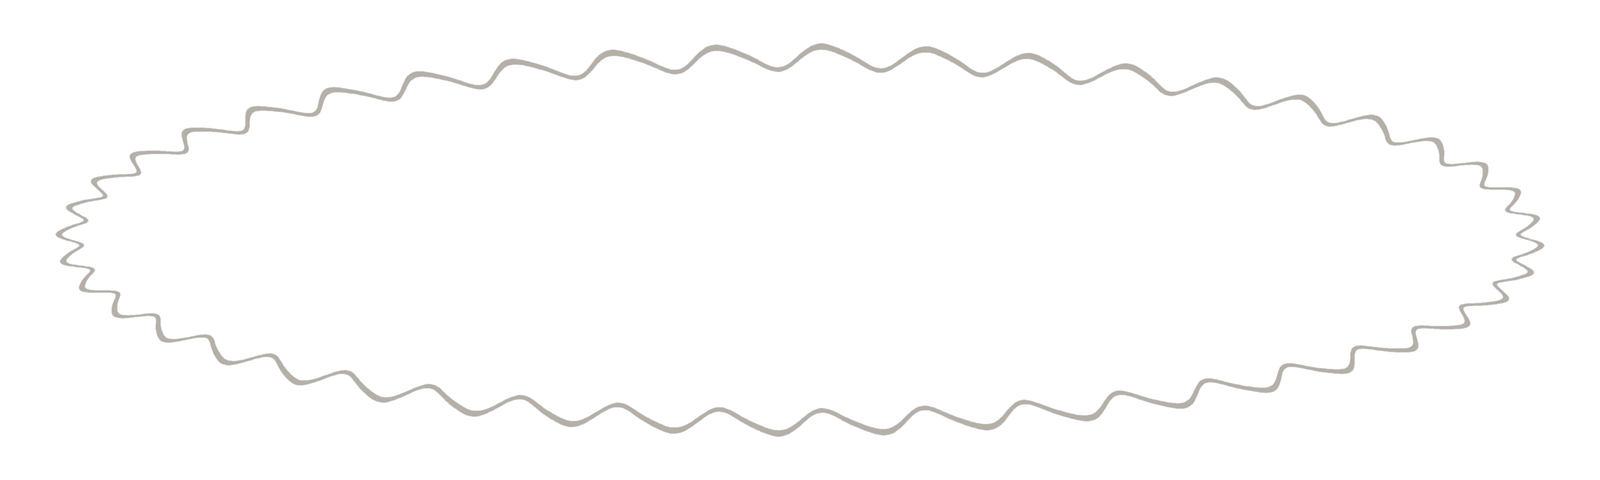
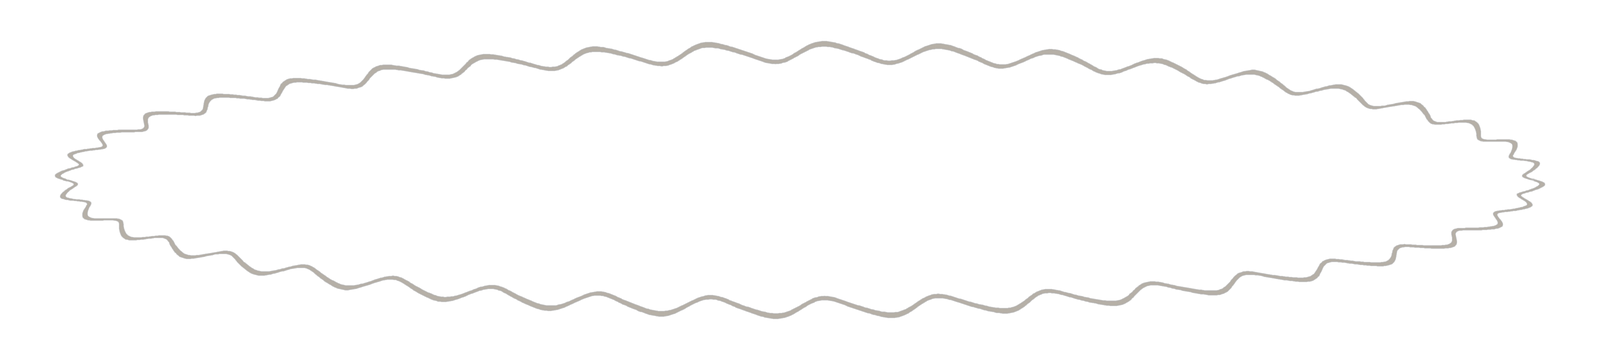
Hug tip platter to the sell line with px pad (flow200).
Flatter 1600×360 stone-gray scallop; replace width-% vertical pad with
fixed 8px/10px so the oval no longer leaves a tall air gap. Style-only.

diff --git a/tests/menus.test.js b/tests/menus.test.js
@@ -753,8 +753,8 @@ assert(page.indexOf('JS already placed the food map') !== -1 &&
   'generate lets Gemini refine Best-fit widths only — not locked shapes or Sharing stacks');
 assert(ingestJs.indexOf('mammoth') !== -1 && ingestJs.indexOf('readDocx') !== -1, 'Word .docx ingest via mammoth');
 assert(page.indexOf('.docx') !== -1 && page.indexOf('wordprocessingml') !== -1, 'upload accepts Word .docx');
-assert(page.indexOf('flow199') !== -1, 'menus page cache-bust is flow199');
-assert(fs.readFileSync(path.join(root, 'index.html'), 'utf8').indexOf('flow199') !== -1, 'hub menus link cache-bust is flow199');
+assert(page.indexOf('flow200') !== -1, 'menus page cache-bust is flow200');
+assert(fs.readFileSync(path.join(root, 'index.html'), 'utf8').indexOf('flow200') !== -1, 'hub menus link cache-bust is flow200');
 (function checkMenusStaffStableEntry() {
   var staffPath = path.join(root, 'menus-staff.html');
   assert(fs.existsSync(staffPath), 'menus-staff.html stable staff entry exists');
@@ -2744,7 +2744,7 @@ assert(/\.scallop-platter[\s\S]{0,500}background-size:\s*100%\s*100%/.test(print
   /scallop\.scallop-wide\.scallop-platter[\s\S]{0,500}background-size:\s*100%\s*100%/.test(printJs),
   'tip platter fills its oval aspect box (not a dashed border-image rect)');
 assert(/frame-platter\.png/.test(printJs), 'tip platter CSS uses frame-platter.png oval asset');
-assert(/aspect-ratio:\s*1600\/480/.test(printJs), 'tip platter CSS uses oval aspect ratio');
+assert(/aspect-ratio:\s*1600\/360/.test(printJs), 'tip platter CSS uses oval aspect ratio');
 assert(/canBalancedSplit/.test(printJs) && print.canBalancedSplit(4) === true &&
   print.canBalancedSplit(5) === false && print.canBalancedSplit(2) === true,
   'even-split helper: only even dish counts may split 2-col');
@@ -3934,11 +3934,11 @@ assert(tipPackedLayout.p2 && tipPackedLayout.p2.sandwiches === true && !tipPacke
   assert(/scallop-platter[\s\S]{0,400}frame-platter\.png/.test(sheet) ||
     /frame-platter\.png[\s\S]{0,400}scallop-platter/.test(sheet),
     'platter background uses frame-platter.png (not rectangular frame-wide)');
-  assert(/aspect-ratio:\s*1600\/480/.test(sheet), 'platter CSS uses oval aspect 1600/480');
-  assert(/scallop-platter[\s\S]{0,220}padding:\s*7%\s*9%\s*8%/.test(sheet) ||
-    /padding:\s*7%\s*9%\s*8%[\s\S]{0,120}scallop-platter/.test(sheet) ||
-    /\.scallop-platter[\s\S]{0,400}padding:\s*7%\s*9%\s*8%/.test(sheet),
-    'platter pad hugs the sell line (tight vertical, not 18%/20% air)');
+  assert(/aspect-ratio:\s*1600\/360/.test(sheet), 'platter CSS uses oval aspect 1600/360');
+  assert(/scallop-platter[\s\S]{0,220}padding:\s*8px\s*16px\s*10px/.test(sheet) ||
+    /padding:\s*8px\s*16px\s*10px[\s\S]{0,120}scallop-platter/.test(sheet) ||
+    /\.scallop-platter[\s\S]{0,400}padding:\s*8px\s*16px\s*10px/.test(sheet),
+    'platter pad hugs the sell line (px pad, not width-% air)');
   assert(/scallop-platter[\s\S]{0,200}border-image:\s*none|border-image:\s*none[\s\S]{0,200}scallop-platter/.test(sheet) ||
     /\.scallop-platter[\s\S]{0,300}border-image:\s*none/.test(sheet),
     'platter CSS disables border-image so the oval silhouette can show');
@@ -4103,7 +4103,7 @@ assert(tipPackedLayout.p2 && tipPackedLayout.p2.sandwiches === true && !tipPacke
     layout: planned,
     promos: api.seedPromoBank()
   });
-  assert(/aspect-ratio:\s*1600\/480/.test(sheet) && /border-image:none!important/.test(sheet),
+  assert(/aspect-ratio:\s*1600\/360/.test(sheet) && /border-image:none!important/.test(sheet),
     'tip platter CSS keeps oval aspect and kills border-image rect');
   assert(/frame-platter\.png/.test(sheet), 'tip uses frame-platter oval asset');
   var a4 = (sheet.split('mode-panel mode-a5')[0] || sheet).replace(/<style[\s\S]*?<\/style>/gi, '');
@@ -4485,7 +4485,7 @@ assert(/Long Specials[\s\S]{0,80}split across two even columns/.test(printJs) ||
     layout: mainPlan,
     promos: api.seedPromoBank()
   });
-  assert(/aspect-ratio:\s*1600\/480/.test(mainSheet) && /border-image:none!important/.test(mainSheet),
+  assert(/aspect-ratio:\s*1600\/360/.test(mainSheet) && /border-image:none!important/.test(mainSheet),
     'tip platter CSS keeps oval aspect on Main');
   assert(/frame-platter\.png/.test(mainSheet), 'Main tip uses frame-platter oval');
   var mainA4 = (mainSheet.split('mode-panel mode-a5')[0] || mainSheet).replace(/<style[\s\S]*?<\/style>/gi, '');

diff --git a/menus-print.js b/menus-print.js
@@ -4536,13 +4536,13 @@
         'background-color:#fff;' +
         'background-image:url("' + asset('frame-platter.png') + '");' +
         'background-position:center;background-size:100% 100%;background-repeat:no-repeat;' +
-        /* Flatter oval (1600/480) + tight pad so the scallop hugs one sell line. */
-        'aspect-ratio:1600/480;width:100%;min-height:0;height:auto;' +
+        /* Flat oval (1600/360). Pad in px (not % of width) so the scallop hugs the sell line. */
+        'aspect-ratio:1600/360;width:100%;min-height:0;height:auto;' +
         'align-self:stretch;overflow:visible;box-sizing:border-box;' +
         '-webkit-print-color-adjust:exact;print-color-adjust:exact}' +
       '.page .scallop-platter .scallop-pad,.scallop-platter .scallop-pad,' +
       '.scallop:has(.sandwich-tip-only) .scallop-pad{' +
-        'padding:7% 9% 8%;display:flex;align-items:center;justify-content:center;' +
+        'padding:8px 16px 10px;display:flex;align-items:center;justify-content:center;' +
         'box-sizing:border-box;min-height:100%}' +
       /* Stacked tip + feature panel: tip keeps the oval platter; panel uses the other wave. */
       '.col:has(.sandwich-tip-only) > .col-feature > .scallop-wide:not(.scallop-platter){' +

diff --git a/index.html b/index.html
@@ -604,7 +604,7 @@
       'giftcards-eightbells': 'https://www.eightbellsbolney.com/staff/vouchers',
       // Standalone Teya CSV reader (browser-only). Does not feed paperwork.
       'cardtakings-windmill': 'card-takings.html?venue=windmill',
-      'menus-eightbells': 'menus.html?v=20261009-flow199',
+      'menus-eightbells': 'menus.html?v=20261009-flow200',
       'rooms-windmill': 'https://rooms.windmilllittleworth.com',
       'payroll': 'https://owner.kinfoldinns.co.uk/payroll.html?v=20260901-xero-pull-timeout',
       'staffhub': 'https://script.google.com/macros/s/AKfycbwcE86RmdBYqgYESAjENcMmrBDW4UZjg9NnpSOnYxnSdwdc1IoRmJUgH900qnEp_ov7/exec'

diff --git a/menus.html b/menus.html
@@ -426,9 +426,9 @@
     <div class="menus no-print" id="menuPicker" role="tablist" aria-label="Which menu"></div>
     <div id="editor"></div>
   </main>
-  <script src="menus.js?v=20261009-flow199"></script>
-  <script src="menus-print.js?v=20261009-flow199"></script>
-  <script src="menus-ingest.js?v=20261009-flow199"></script>
+  <script src="menus.js?v=20261009-flow200"></script>
+  <script src="menus-print.js?v=20261009-flow200"></script>
+  <script src="menus-ingest.js?v=20261009-flow200"></script>
   <script>
     if (window.parent !== window) document.documentElement.classList.add('iframed');
 
